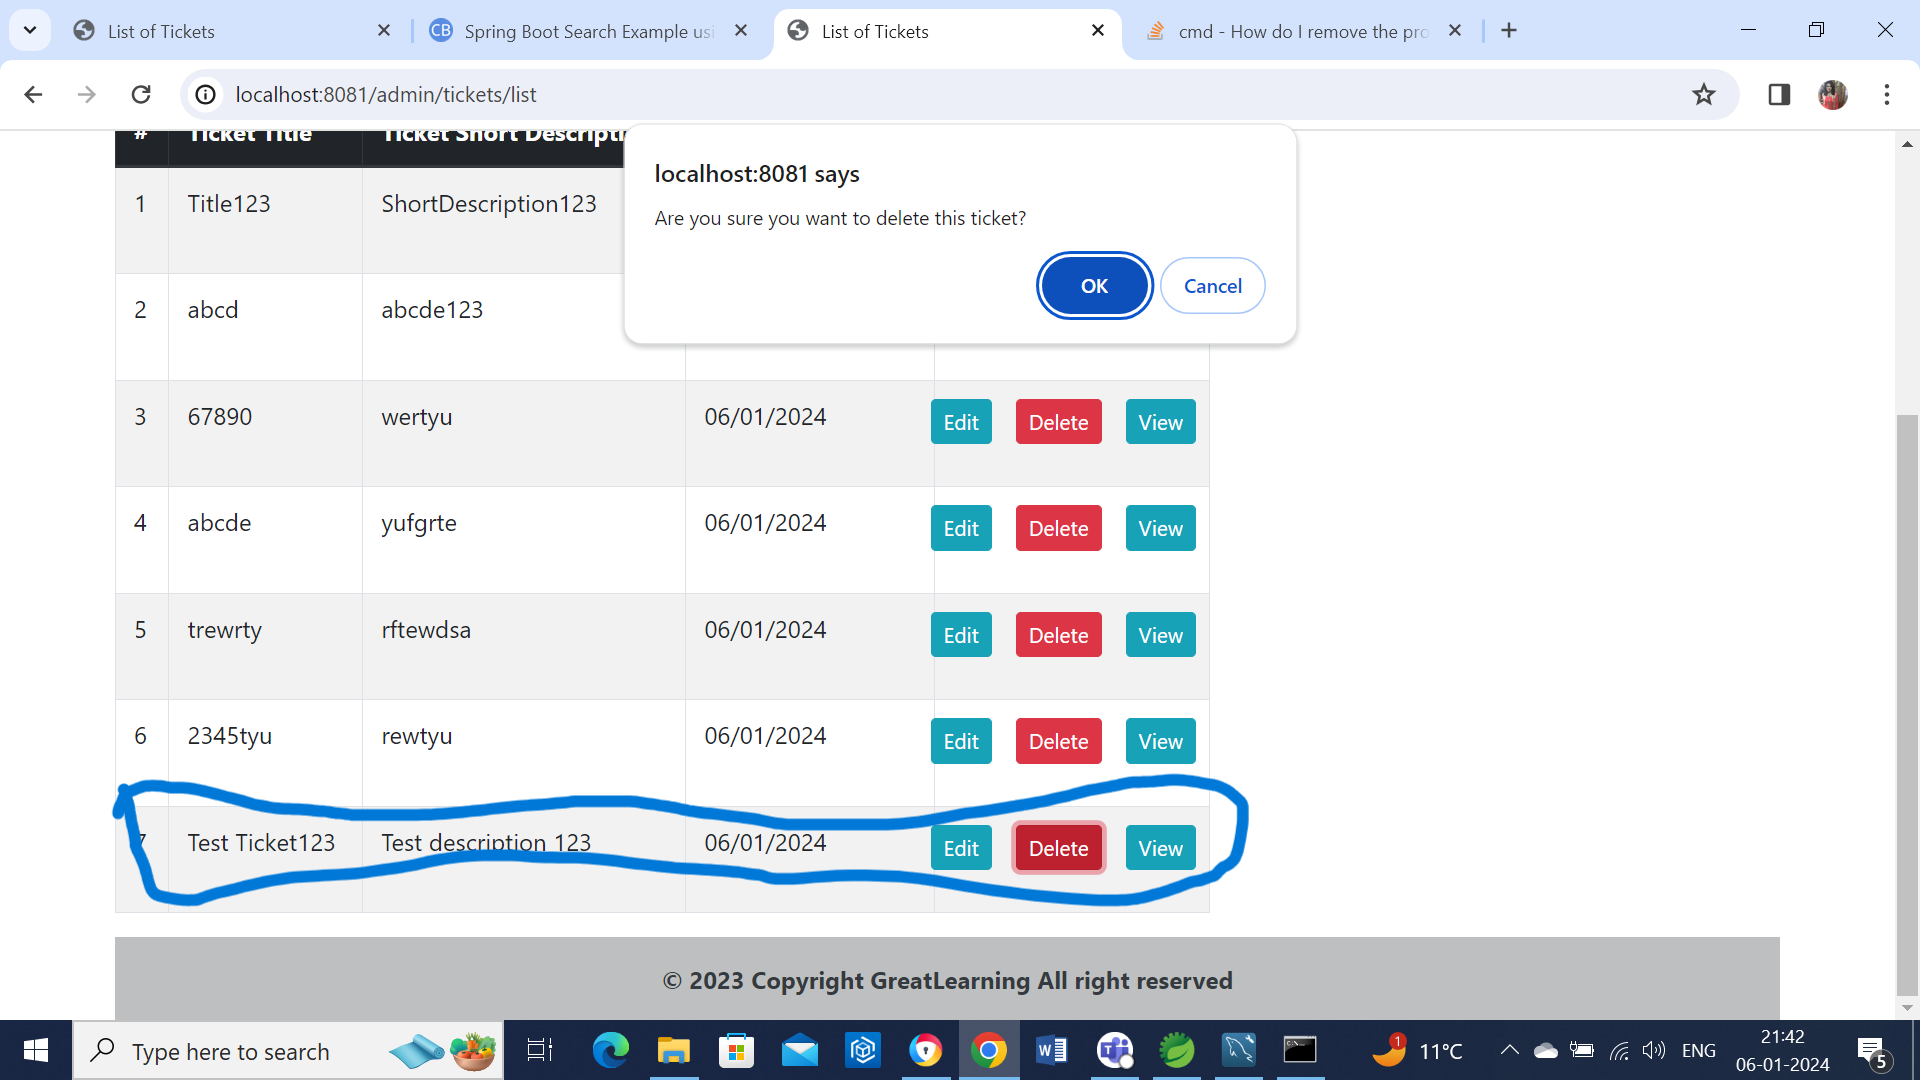
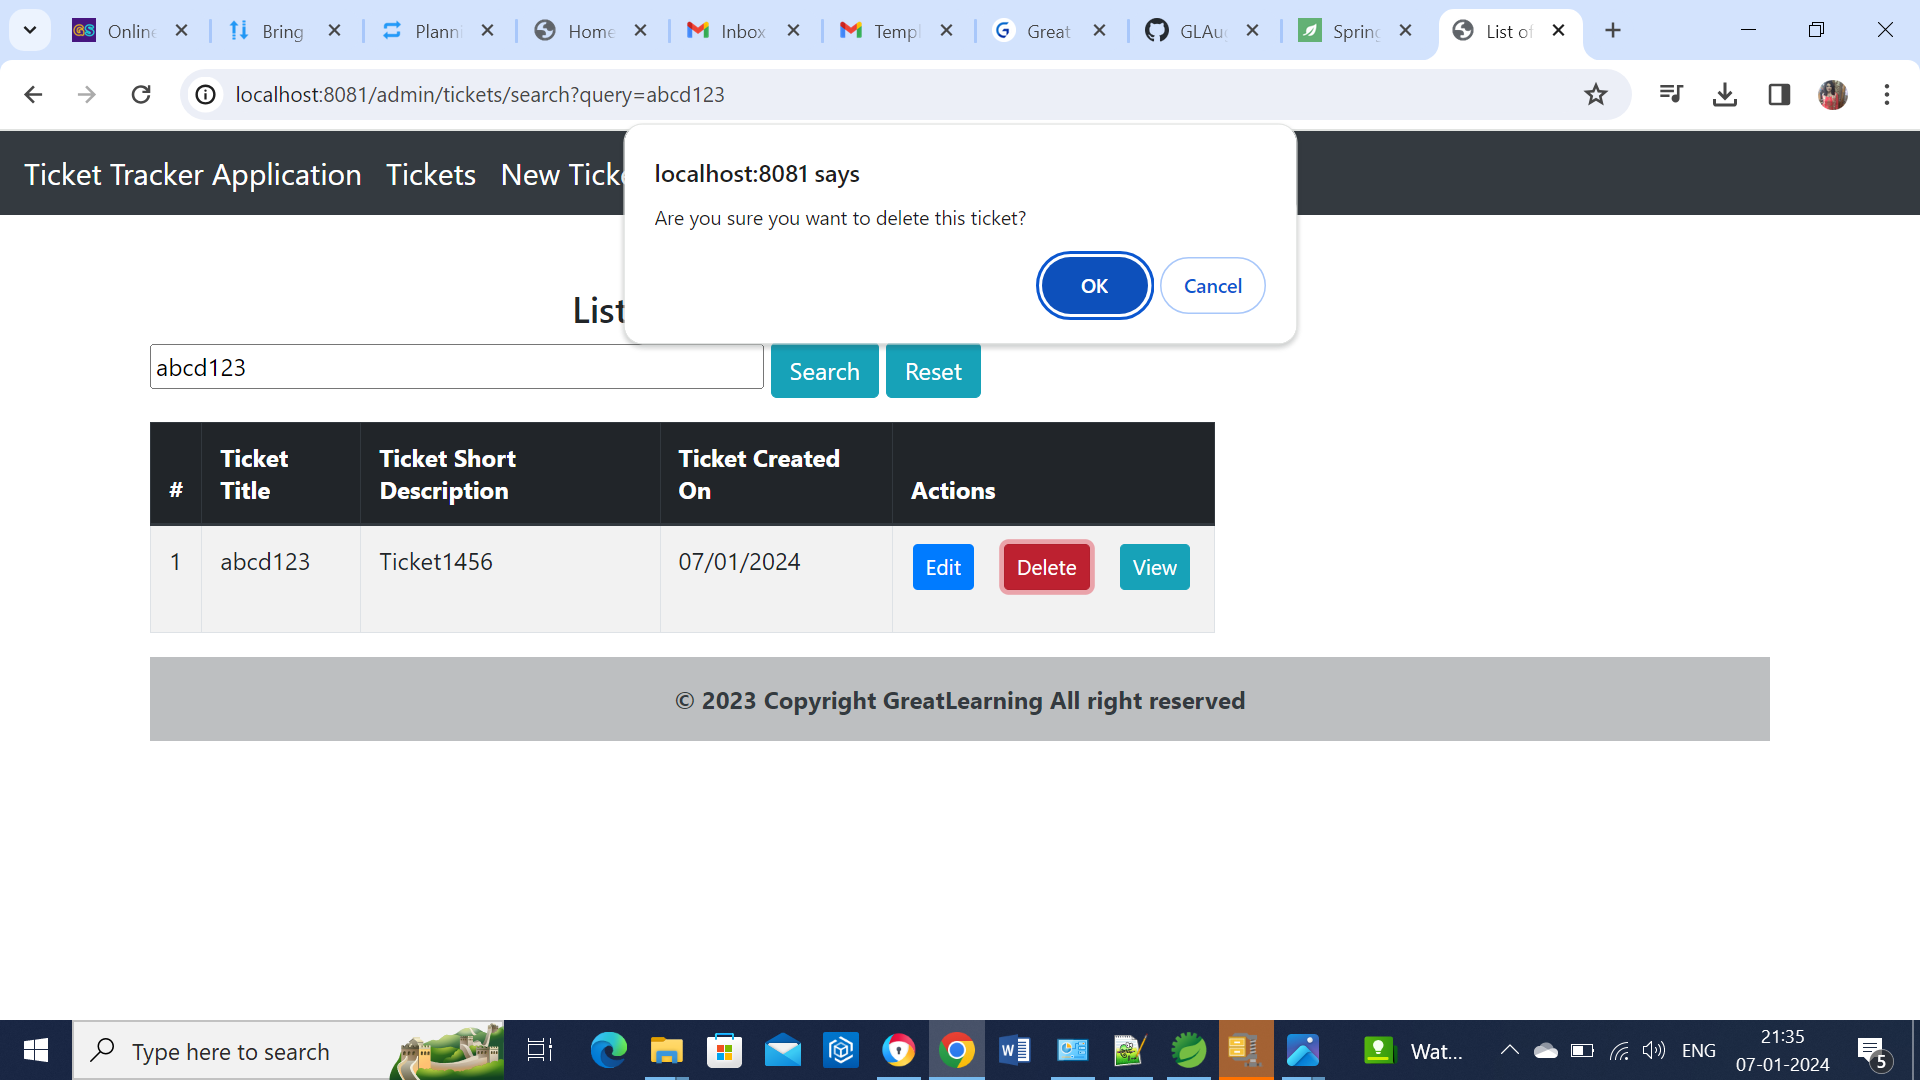
modified changes

diff --git a/TicketTrackerManagement/src/main/resources/templates/tickets/list-tickets.html b/TicketTrackerManagement/src/main/resources/templates/tickets/list-tickets.html
@@ -11,24 +11,20 @@
   <nav class="navbar navbar-expand-lg navbar-dark bg-dark">
     
         <a class="navbar-brand" href="/">Ticket Tracker Application</a>
-        <a class="navbar-brand" href="#">Tickets</a>
-          <a class="navbar-brand" href="#">New Ticket</a>      
+        <a class="navbar-brand" th:href="@{/admin/tickets/list}">Tickets</a>
+        <a class="navbar-brand" th:href="@{/admin/tickets/newTicket}">New Ticket</a>      
         
     
 </nav>
 
 <div class ="container">
- <div class="row">
+ <div>
         <div class="col-md-8 mt-5">
 		<h4 style="text-align:center">List of Tickets</h4>
 		
-		<a th:href="@{/admin/tickets/newTicket}"
-		class="btn btn-primary btn-sm mb-3">
-		Create Ticket
-	</a>
 		<div class="row">
 		<form th:action="@{/admin/tickets/search}" method="get">
-  <input type="text" name="query" th:value="${query}"  placeholder="Find by Title & Short Description" size="50" >
+  <input type="text" name="query" th:value="${query}" style="margin-left: 15px;"  placeholder="Find by Title & Short Description" size="50" >
   <button type="submit" class="btn btn-info" >Search</button>
   <button type="submit" class="btn btn-info" >Reset</button>
   </form>
@@ -51,7 +47,7 @@
 		<td th:text="${tempTickets.createdOn}"></td>
 		
 		<td>
-		<div class="row">
+		<div class="row" style="margin-right: 0;flex-wrap: nowrap;">
 				
 				
 					<div class="col-small">
@@ -59,7 +55,7 @@
 					<form action="#" th:action="@{/admin/tickets/showFormEdit}" method="POST">
 					
 						<input type="hidden" name="ticketId" th:value="${tempTickets.id}" />						
-						<button type="submit" class="btn btn-info btn-sm mr-3 mr-1">Edit</button>
+						<button type="submit" class="btn btn-sm ml-3 mr-1" style="background-color: #007bff; color: #fff;">Edit</button>
 
 					</form>
 					</div>
@@ -68,7 +64,7 @@
 					<form action="#" th:action="@{/admin/tickets/delete}" method="POST">
 					
 						<input type="hidden" name="ticketId" th:value="${tempTickets.id}" />						
-						<button type="submit" class="btn btn-danger btn-sm"
+						<button type="submit" class="btn btn-danger btn-sm ml-3 mr-1"
 								onclick="if (!(confirm('Are you sure you want to delete this ticket?'))) return false">
 								Delete
 						</button>
@@ -77,8 +73,8 @@
 					</div>
 				
 					<div class="col-small">
-					<!-- Add "update" button/link -->
-					<form action="#" th:action="@{/tickets/list}" method="POST">
+					<!-- Add "view" button/link -->
+					<form action="#" th:action="@{/admin/tickets/showFormView}" method="POST">
 					
 						<input type="hidden" name="ticketId" th:value="${tempTickets.id}" />						
 						<button type="submit" class="btn btn-info btn-sm ml-3 mr-1">View</button>

diff --git a/TicketTrackerManagement/src/main/resources/templates/tickets/create-ticket.html b/TicketTrackerManagement/src/main/resources/templates/tickets/create-ticket.html
@@ -15,8 +15,8 @@
     <nav class="navbar navbar-expand-lg navbar-dark bg-dark">
     
         <a class="navbar-brand" href="/">Ticket Tracker Application</a>
-        <a class="navbar-brand" href="#">Tickets</a>
-          <a class="navbar-brand" href="#">New Ticket</a>      
+        <a class="navbar-brand" th:href="@{/admin/tickets/list}">Tickets</a>
+          <a class="navbar-brand" th:href="@{/admin/tickets/newTicket}">New Ticket</a>      
         
     
 </nav>

diff --git a/TicketTrackerManagement/src/main/java/com/greatlearning/controller/TicketController.java b/TicketTrackerManagement/src/main/java/com/greatlearning/controller/TicketController.java
@@ -20,72 +20,87 @@ import com.greatlearning.service.TicketService;
 @Controller
 @RequestMapping("/admin")
 public class TicketController {
-	
+
 	@Autowired
 	private TicketService ticketService;
-	
+
 	@GetMapping("/tickets/list")
 	public String listTickets(Model model) {
-		List<Tickets> tickets =ticketService.findAll();
+		List<Tickets> tickets = ticketService.findAll();
 		DateFormat dateFormat = new SimpleDateFormat("dd/MM/yyyy");
-	    String dateString = dateFormat.format(new Date());
-	    model.addAttribute("createdOn", dateString);
+		String dateString = dateFormat.format(new Date());
+		model.addAttribute("createdOn", dateString);
 		model.addAttribute("tickets", tickets);
 		return "tickets/list-tickets";
-		
+
 	}
-	
+
 	@GetMapping("/tickets/newTicket")
-	
 	public String createTicket(Model model) {
 		Tickets ticket = new Tickets();
 		model.addAttribute("ticket", ticket);
 		return "tickets/create-ticket";
-		
+
 	}
-	
-	// 	public String saveBook(@RequetBody("book") Book theBook, Model model) {
+
+	// public String saveBook(@RequetBody("book") Book theBook, Model model) {
 	@PostMapping("/tickets/save")
 	public String saveTicket(@ModelAttribute("ticket") Tickets theTickets) {
-		//save the book object
+		// save the book object
 		DateFormat dateFormat = new SimpleDateFormat("dd/MM/yyyy");
-	    String dateString = dateFormat.format(new Date());
-	    theTickets.setCreatedOn(dateString);
+		String dateString = dateFormat.format(new Date());
+		theTickets.setCreatedOn(dateString);
 		ticketService.save(theTickets);
 		return "redirect:/admin/tickets/list";
-		
+
 	}
-	
+
 	@PostMapping("/tickets/delete")
 	public String delete(@RequestParam("ticketId") int ticketId) {
-		//delete the book
+		// delete the book
 		ticketService.deleteById(ticketId);
 		return "redirect:/admin/tickets/list";
 
 	}
-	
+
 	@PostMapping("/tickets/showFormEdit")
 	public String showFromForUpdate(@RequestParam("ticketId") int ticketId, Model model) {
-		
-		//get the book from the database
-		Tickets theTicket  = ticketService.findById(ticketId);
-		// 1. theBook, ABC, JAVA
-		
+
+		// get the book from the database
+		Tickets theTicket = ticketService.findById(ticketId);
+				
+		// 1. theBook, ABC, JAV
+
 		// 1. JAVA, JAVA, JAVA
-		
+
 		model.addAttribute("ticket", theTicket);
-		return "tickets/create-ticket";
+		return "tickets/update-ticket";
 
 	}
-	@GetMapping({"/","/tickets/search"})
-	 public String home(Tickets ticket, Model model, String query) {
-	  if(query!=null) {
-	   List<Tickets> tickets = ticketService.getByKeyWord(query);
-	   model.addAttribute("tickets", tickets);
-	  }else {
-	  List<Tickets> tickets = ticketService.findAll();
-	  model.addAttribute("tickets", tickets);}
-	  return "tickets/list-tickets";
-	 }
+
+	@PostMapping("/tickets/showFormView")
+	public String showFromForView(@RequestParam("ticketId") int ticketId, Model model) {
+
+		// get the book from the database
+		Tickets theTicket = ticketService.findById(ticketId);
+		// 1. theBook, ABC, JAVA
+
+		// 1. JAVA, JAVA, JAVA
+
+		model.addAttribute("ticket", theTicket);
+		return "tickets/view-ticket";
+
 	}
 
+	@GetMapping({ "/", "/tickets/search" })
+	public String home(Tickets ticket, Model model, String query) {
+		if (query != null) {
+			List<Tickets> tickets = ticketService.getByKeyWord(query);
+			model.addAttribute("tickets", tickets);
+		} else {
+			List<Tickets> tickets = ticketService.findAll();
+			model.addAttribute("tickets", tickets);
+		}
+		return "tickets/list-tickets";
+	}
+}

diff --git a/TicketTrackerManagement/src/main/java/com/greatlearning/entity/Tickets.java b/TicketTrackerManagement/src/main/java/com/greatlearning/entity/Tickets.java
@@ -1,7 +1,5 @@
 package com.greatlearning.entity;
 
-
-
 import org.springframework.format.annotation.DateTimeFormat;
 
 import jakarta.persistence.Entity;
@@ -18,69 +16,69 @@ public class Tickets {
 
 	@Id
 	@GeneratedValue(strategy = GenerationType.IDENTITY)
-   private int id;
-   
-   private String title;
-   
-   private String shortDescription;
-   
-   @DateTimeFormat(pattern="dd-MM-yyyy")
-   private String createdOn;
-   
-   private String content;
+	private int id;
 
-public String getTitle() {
-	return title;
-}
+	private String title;
 
-public void setTitle(String title) {
-	this.title = title;
-}
+	private String shortDescription;
 
-public String getShortDescription() {
-	return shortDescription;
-}
+	@DateTimeFormat(pattern = "dd-MM-yyyy")
+	private String createdOn;
 
-public void setShortDescription(String shortDescription) {
-	this.shortDescription = shortDescription;
-}
+	private String content;
 
-public String getCreatedOn() {
-	return createdOn;
-}
+	public String getTitle() {
+		return title;
+	}
 
-public void setCreatedOn(String createdOn) {
-	this.createdOn = createdOn;
-}
+	public void setTitle(String title) {
+		this.title = title;
+	}
 
-public String getContent() {
-	return content;
-}
+	public String getShortDescription() {
+		return shortDescription;
+	}
 
-public void setContent(String content) {
-	this.content = content;
-}
+	public void setShortDescription(String shortDescription) {
+		this.shortDescription = shortDescription;
+	}
 
-public Tickets(int id, String title, String shortDescription, String createdOn, String content) {
-	super();
-	this.id = id;
-	this.title = title;
-	this.shortDescription = shortDescription;
-	this.createdOn = createdOn;
-	this.content = content;
-}
+	public String getCreatedOn() {
+		return createdOn;
+	}
 
-@Override
-public String toString() {
-	return "Tickets [id=" + id + ", title=" + title + ", shortDescription=" + shortDescription + ", createdOn="
-			+ createdOn + ", content=" + content + "]";
-}
+	public void setCreatedOn(String createdOn) {
+		this.createdOn = createdOn;
+	}
 
-public int getId() {
-	return id;
-}
+	public String getContent() {
+		return content;
+	}
 
-public void setId(int id) {
-	this.id = id;
-}
+	public void setContent(String content) {
+		this.content = content;
+	}
+
+	public Tickets(int id, String title, String shortDescription, String createdOn, String content) {
+		super();
+		this.id = id;
+		this.title = title;
+		this.shortDescription = shortDescription;
+		this.createdOn = createdOn;
+		this.content = content;
+	}
+
+	@Override
+	public String toString() {
+		return "Tickets [id=" + id + ", title=" + title + ", shortDescription=" + shortDescription + ", createdOn="
+				+ createdOn + ", content=" + content + "]";
+	}
+
+	public int getId() {
+		return id;
+	}
+
+	public void setId(int id) {
+		this.id = id;
+	}
 }

diff --git a/TicketTrackerManagement/src/main/java/com/greatlearning/dao/TicketsRepository.java b/TicketTrackerManagement/src/main/java/com/greatlearning/dao/TicketsRepository.java
@@ -10,11 +10,9 @@ import org.springframework.stereotype.Repository;
 import com.greatlearning.entity.Tickets;
 
 @Repository
-public interface TicketsRepository  extends JpaRepository<Tickets, Integer>{
-	
-	 //Custom query
-	 @Query(value = "select * from Tickets t where t.title like %:query% or t.short_description like %:query%", nativeQuery = true)
-	 List<Tickets> findByKeyword(@Param("query") String query);
-	}
+public interface TicketsRepository extends JpaRepository<Tickets, Integer> {
 
-
+	// Custom query
+	@Query(value = "select * from Tickets t where t.title like %:query% or t.short_description like %:query%", nativeQuery = true)
+	List<Tickets> findByKeyword(@Param("query") String query);
+}

diff --git a/TicketTrackerManagement/src/main/java/com/greatlearning/service/TicketService.java b/TicketTrackerManagement/src/main/java/com/greatlearning/service/TicketService.java
@@ -7,13 +7,13 @@ import com.greatlearning.entity.Tickets;
 public interface TicketService {
 
 	public List<Tickets> findAll();
-	
+
 	public void save(Tickets tickets);
-	
+
 	public Tickets findById(int id);
-	
+
 	public void deleteById(int id);
-	
-	public 	List<Tickets> getByKeyWord(String query);
-	
+
+	public List<Tickets> getByKeyWord(String query);
+
 }

diff --git a/TicketTrackerManagement/src/main/java/com/greatlearning/service/TicketServiceImpl.java b/TicketTrackerManagement/src/main/java/com/greatlearning/service/TicketServiceImpl.java
@@ -29,7 +29,8 @@ public class TicketServiceImpl implements TicketService {
 	@Override
 	public Tickets findById(int id) {
 		// TODO Auto-generated method stub
-		return ticketsRepository.findById(id).get();
+		return ticketsRepository.findById(id)
+				.orElseThrow(() -> new IllegalArgumentException("Invalid ticket Id:" + id));
 	}
 
 	@Override
